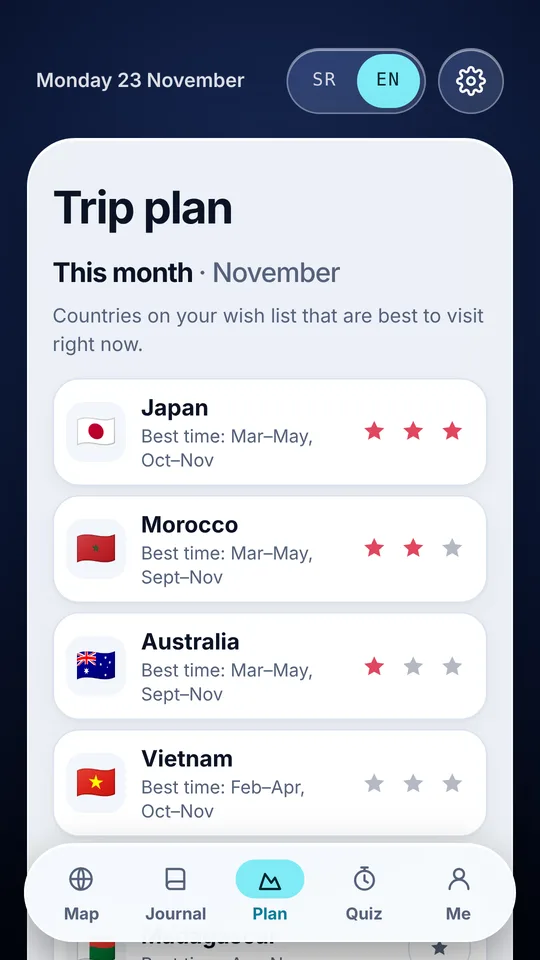
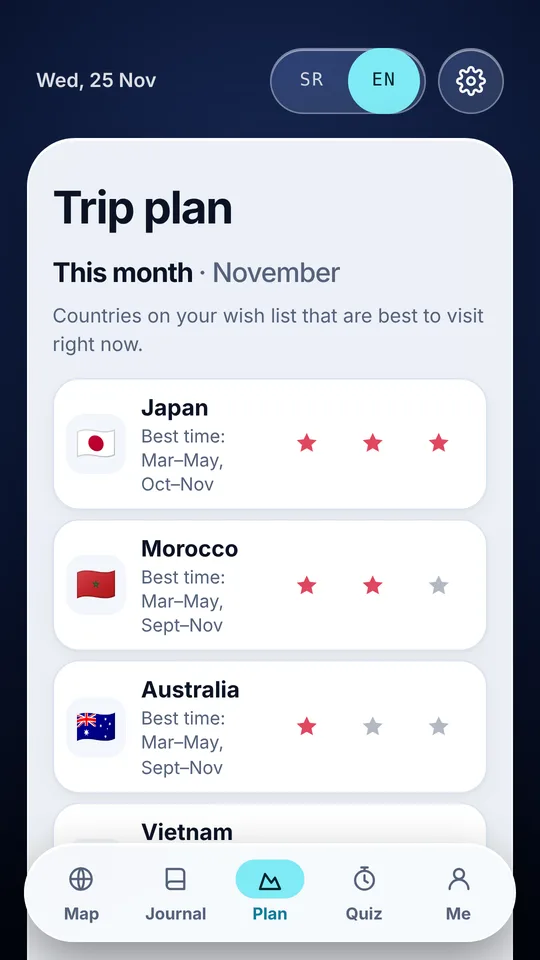
Kraći datum u zaglavlju (Sre, 25. nov / Wed, 25 Nov); nove slike za Play
Claude-Session: https://claude.ai/code/session_01Kbzv2mo1YiKkorS74WhJuk

diff --git a/app/index.html b/app/index.html
@@ -2918,7 +2918,10 @@ document.addEventListener("input", e=>{
 });
 function applyLang(){
   applyTheme(); skyTick();
-  try{ const d = new Intl.DateTimeFormat(lang==="en" ? "en-GB" : "sr-Latn", {weekday:"long", day:"numeric", month:"long"}).format(new Date()); $("today").textContent = d.charAt(0).toUpperCase() + d.slice(1); }catch(e){}
+  // kratak datum (npr. „Sre, 25. nov“ / „Wed, 25 Nov“) da stane u zaglavlje i na uskim ekranima
+  try{ const now = new Date(), loc = lang==="en" ? "en-GB" : "sr-Latn";
+    const wd = new Intl.DateTimeFormat(loc, {weekday:"short"}).format(now).replace(/\.$/, ""), dm = new Intl.DateTimeFormat(loc, {day:"numeric", month:"short"}).format(now);
+    $("today").textContent = wd.charAt(0).toUpperCase() + wd.slice(1) + ", " + dm; }catch(e){}
   document.documentElement.lang = lang==="en" ? "en" : "sr-Latn";
   document.title = t("title");
   Object.assign(C, CONT[lang]);
